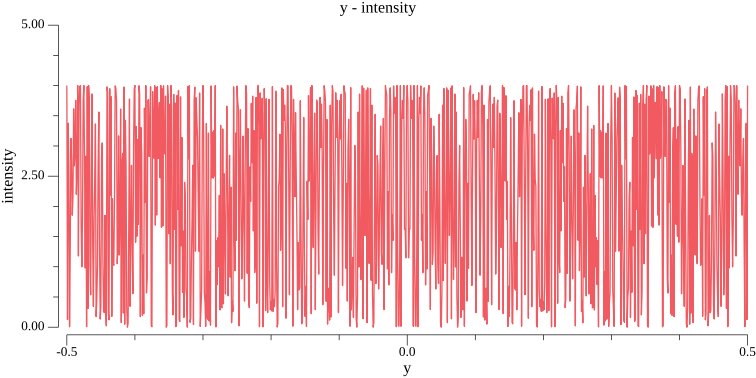
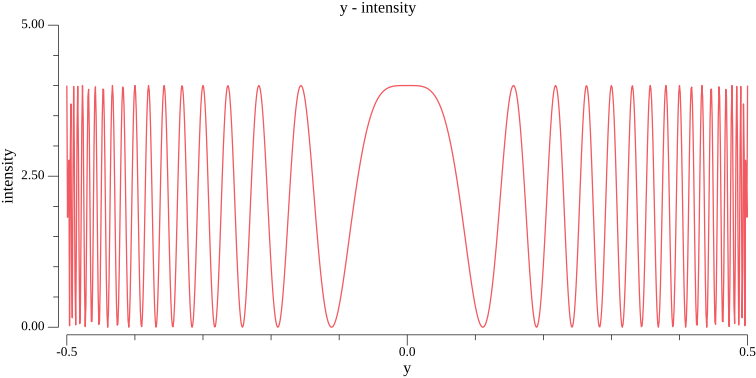
Updated intensity.go, intensity.png and main.go.

diff --git a/intensity.go b/intensity.go
@@ -4,8 +4,17 @@ import (
 	"math"
 )
 
-func intensity(y, y0, I0, d, l float64) float64 {
+func intensity(y, y0, d, l, b float64) float64 {
 	th := math.Acos(y / y0)
 	i := math.Cos(math.Pi * d * math.Sin(th) / l)
-	return 4 * I0 * i * i
+	diff := sinc(math.Pi * b * math.Sin(th) / l)
+	return i * i * diff * diff
+}
+
+func sinc(a float64) float64 {
+	if a != 0 {
+		return math.Sin(a) / a
+	} else {
+		return 1.0
+	}
 }

diff --git a/main.go b/main.go
@@ -11,7 +11,7 @@ func main() {
 		x := float64(i) / 1000.0
 		points = append(points, plotter.XY{
 			X: x,
-			Y: intensity(x, 0.5, 1, 0.02, 5e-7),
+			Y: intensity(x, 0.5, 1, 0.02, 0.001),
 		})
 	}
 	b := bounds{
